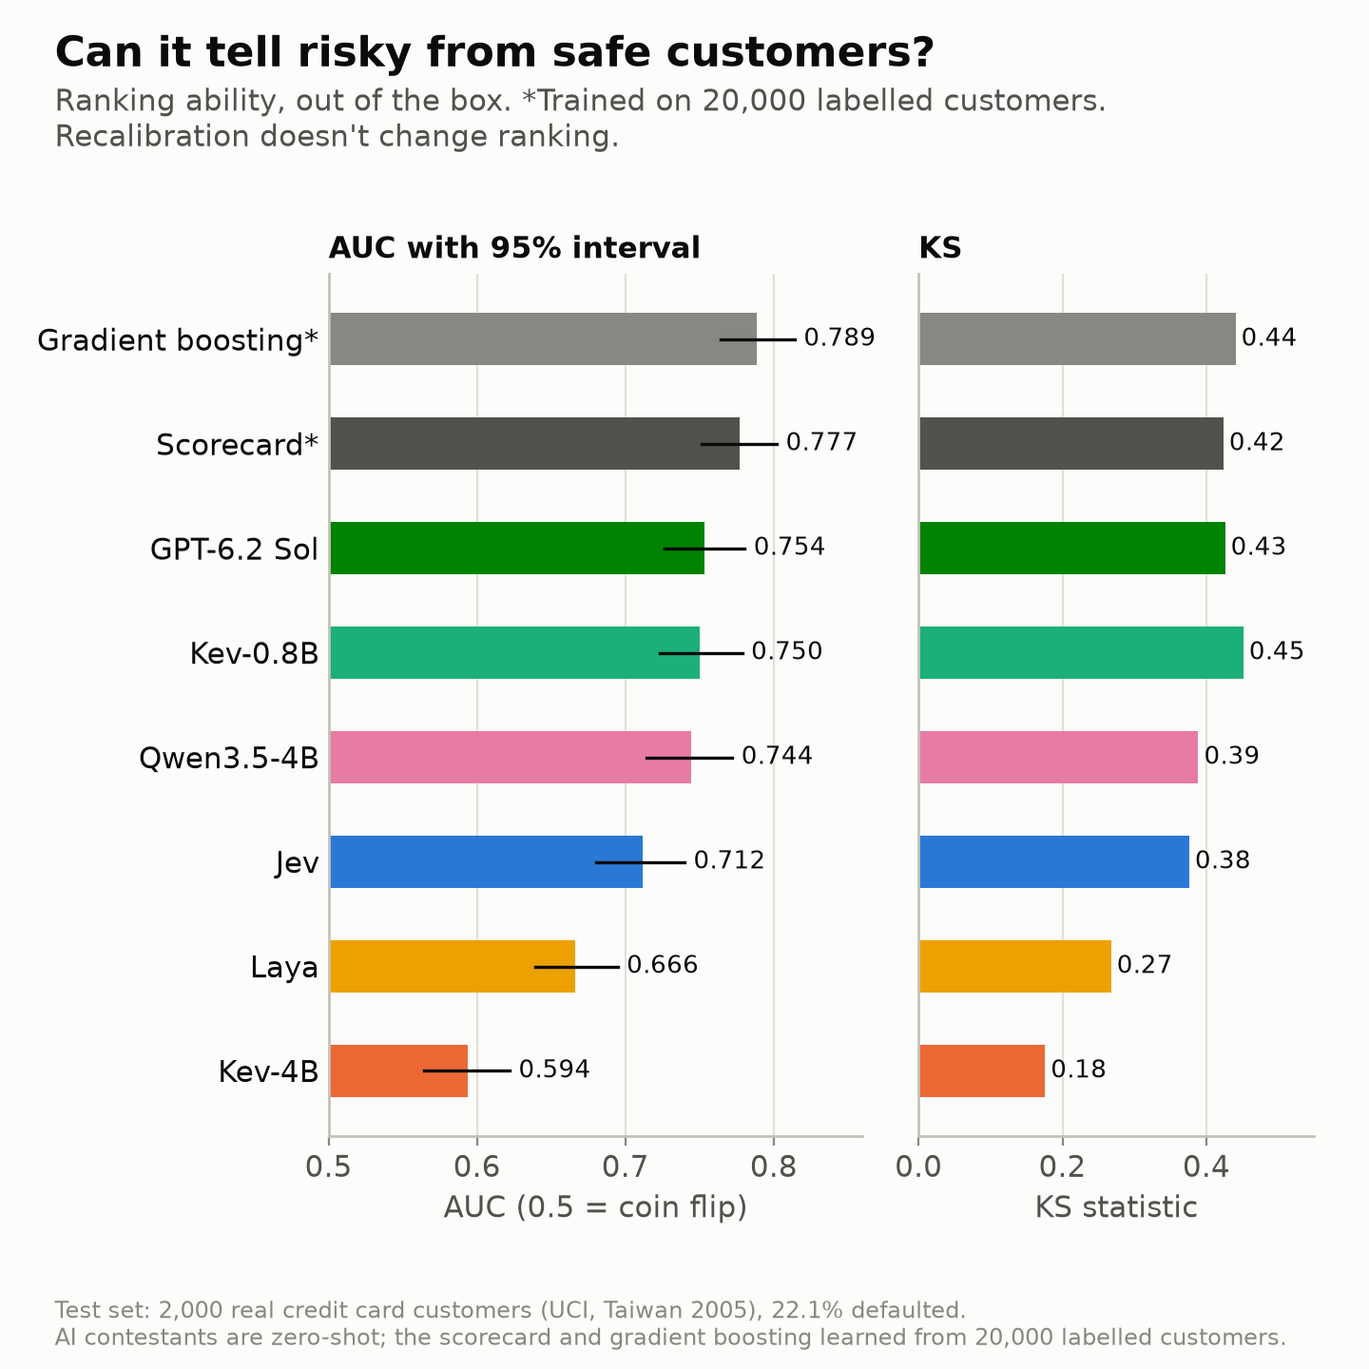
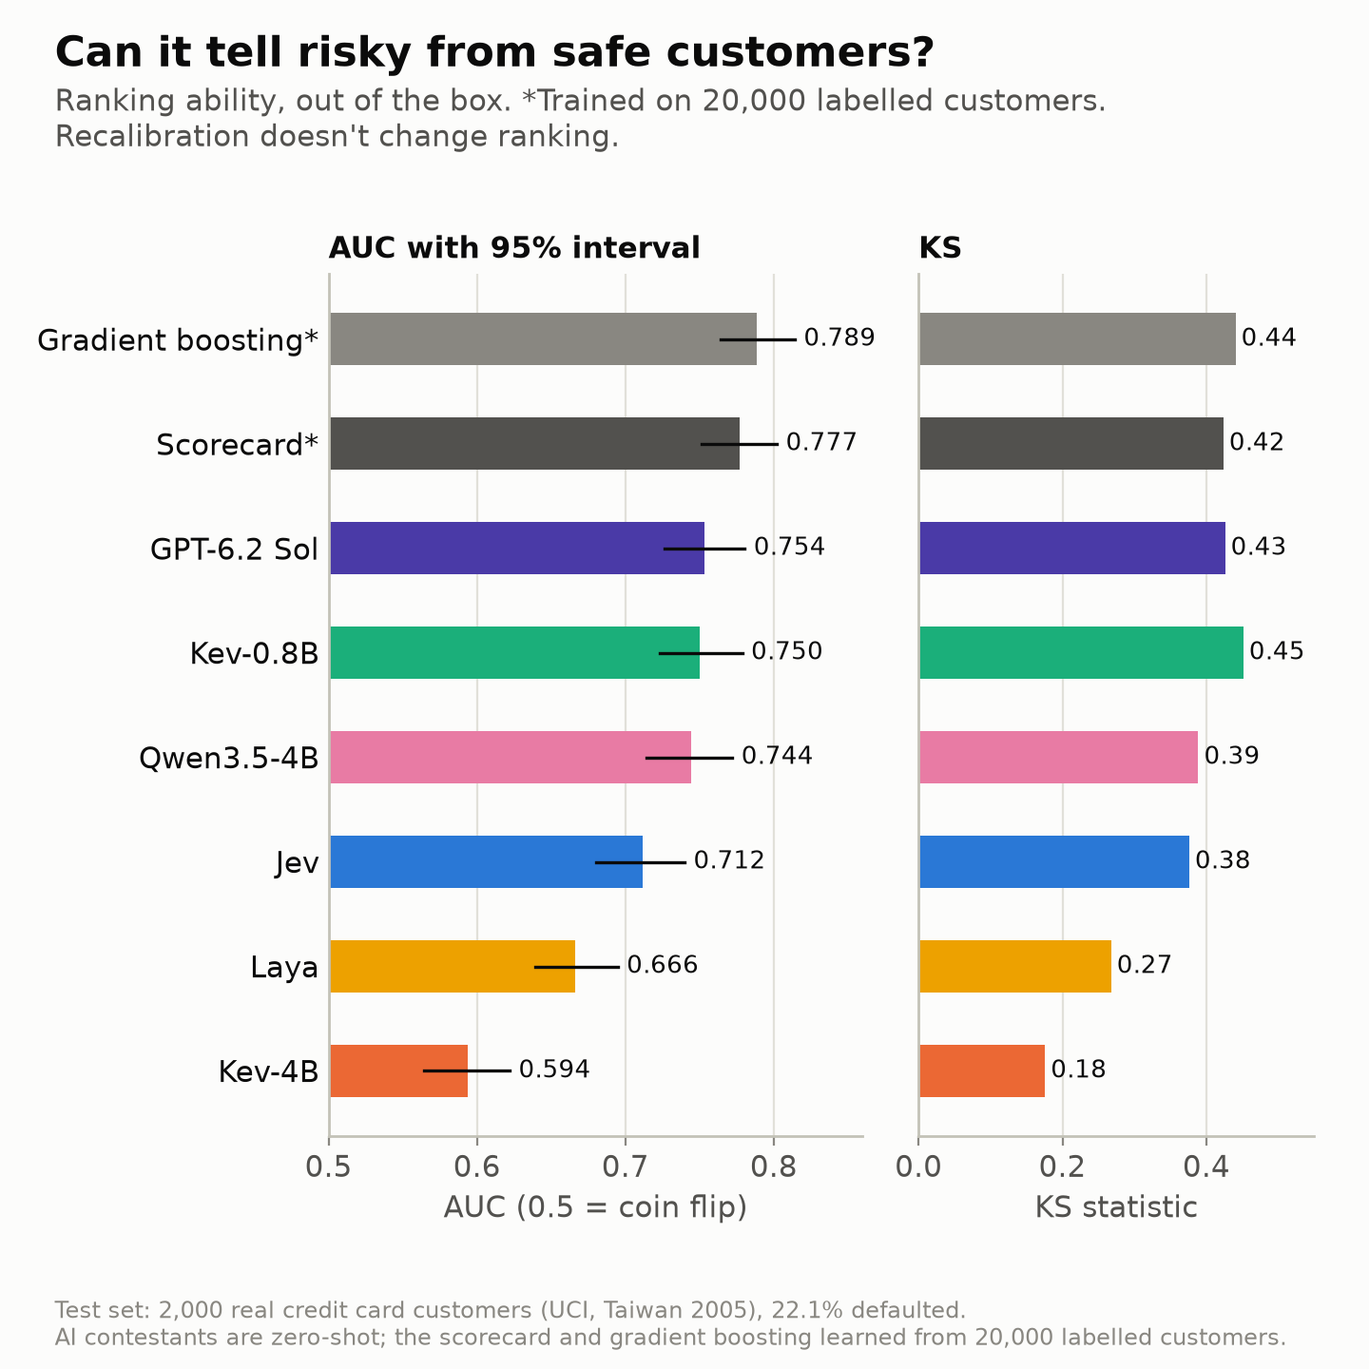
M5 drafts: blog, LinkedIn carousel, X post; Sol recoloured violet in figures
- writeup/blog.md: the canonical post (~1,700 words + method appendix),
  written to writeup/STYLE.md (curiosity first, expertise second).
- writeup/carousel.md: 8 slides, post text and first comment.
- writeup/x_post.md: long-form post with the main chart, links in the reply.
- figures.py: GPT-6.2 Sol moves from slot-6 green (#008300) to slot-7 violet
  at its earlier step (#4a3aa7). The green sat beside Kev-0.8B's aqua and was
  near-identical to Kev-4B's orange under red-green colour blindness (CVD dE
  3.2); the violet's worst pair is 7.0, covered by every chart's name labels.
  All five figures regenerated.

Changed region(s): [[0.2188, 0.375, 0.5312, 0.4375], [0.6562, 0.375, 0.9062, 0.4375]]

diff --git a/analysis/figures.py b/analysis/figures.py
@@ -47,7 +47,11 @@ COLOR = {
     "kev-0.8b": "#1baf7a",  # slot 3 aqua
     "laya": "#eda100",  # slot 4 yellow
     "qwen-logprobs": "#e87ba4",  # slot 5 magenta
-    "frontier-verbal": "#008300",  # slot 6 green
+    # Slot 7 violet at its earlier, darker step. The slot 6 green sat next to Kev-0.8B's aqua
+    # (normal-vision dE 15.6) and was nearly identical to Kev-4B's orange for red-green colour
+    # blindness (dE 3.2); this violet's nearest pairs are Jev (16.3) and the grey scorecard (CVD
+    # 7.0, which every chart's name labels cover).
+    "frontier-verbal": "#4a3aa7",
     "scorecard": "#52514e",  # neutral reference
     "gbm": "#898781",  # neutral reference
 }

diff --git a/writeup/blog.md b/writeup/blog.md
@@ -1,0 +1,198 @@
+# Can AI actually know when it's wrong?
+
+*I gave eight models the same 2,000 real credit-card customers and checked whether their percentages meant what they said.*
+
+When a weather app says there's a 70% chance of rain, you don't expect rain every time. You expect it on about seven of every ten days the app says that. If it rains on all ten, or on two, the app wasn't wrong on any single day. It was wrong about how sure it was.
+
+Banks are held to exactly this standard. Every lending decision rests on a number: the probability that this customer won't pay back. Banks that build their own risk models are expected to show that those probabilities hold up against what actually happens. If a model says 10% and 30% of those customers default, there's a problem, however well it ranked them.
+
+AI models hand out percentages now too. A new kind of model, built only for yes-or-no decisions, returns an answer with a confidence attached, and any chatbot will give you a probability if you ask. So I wanted to know: when an AI says "30% likely", does it mean 30%?
+
+I spent years building credit-risk models, where an honest probability matters more than a clever one. So I ran the test a bank would run.
+
+## The experiment
+
+I used a well-known public dataset: 30,000 credit-card customers of a bank in Taiwan in 2005, and whether each one missed their next payment. About 22% did. I set aside 2,000 customers as the test, the same 2,000 for every contestant.
+
+Each contestant saw the same information about each customer: the credit limit and six months of bills, payments and repayment status. Nothing else. I left out age, sex, marital status and education on purpose. A lending model shouldn't use them, and leaving them out keeps the comparison clean. For the AI models, that became a short text summary:
+
+```
+Credit card account summary
+Credit limit: NT$160,000
+
+Month (most recent first) | Bill amount | Amount paid | Repayment status
+Sep 2005 | NT$30,265 | NT$131 | paid on time (code -1)
+Aug 2005 | -NT$131 (credit) | NT$396 | paid on time (code -1)
+Jul 2005 | -NT$527 (credit) | NT$396 | not late (code -2)
+...
+```
+
+followed by one question: *will this customer miss next month's payment?*
+
+Eight contestants answered.
+
+**Six AI models, answering cold**, with no examples:
+- **Jev**, from TypeSafe: a commercial "decision model", built to answer closed questions with a confidence.
+- **Kev-4B, Kev-0.8B and Laya**: open-source decision models, which I ran on a rented GPU.
+- **Qwen3.5-4B**: a small, free, general-purpose language model. I read its probability straight from its internals: how much weight it put on "yes" versus "no".
+- **GPT-6.2 Sol**: the model ChatGPT starts new chats on, simply asked for a probability from 0 to 100.
+
+**Two classic models**, trained the old way on 20,000 customers whose outcomes were known:
+- a **scorecard** (a logistic regression), the kind banks have used for decades;
+- **gradient boosting**, the standard modern machine-learning approach.
+
+That difference matters, and I'll repeat it wherever I compare them: the classic models learned from 20,000 labelled examples, and the AI models got none. But that *is* the practical question. Do you need the new AI, or the old model and some data?
+
+Each AI model answered three ways:
+1. **Out of the box.**
+2. **With one extra sentence:** "In this portfolio, about 22.1% of customers miss next month's payment."
+3. **After recalibration:** 2,000 *other* customers with known outcomes were used to correct its percentages.
+
+## What "honest" looks like
+
+Here's the whole test in one picture. For each model, I sorted the customers from lowest predicted risk to highest and split them into ten equal groups. Then I plotted what the model promised for each group against what actually happened.
+
+![Promised vs actual default rate](../results/figures/1_promised_vs_actual.png)
+
+On the diagonal, the model is honest: when it says 30%, 30% default. The grey line is the scorecard, and it hugs the diagonal. I'll sum up the gap as one number: the average distance between promised and actual, known as *calibration error* (ECE). The scorecard's is 0.014, so its percentages are off by about 1.4 points on average.
+
+## What I found
+
+### 1. Most AI models think customers are riskier than they are
+
+Five of the six overstated the risk, and two of them more than doubled it:
+- **Jev** said 48% of these customers would default, on average, and **Kev-4B** said 49%. The real figure was 22%.
+- **What a bank would see:** acting on Jev's numbers, it would find 70% of its customers in the "40% or more" risk band. In that group, 26% actually defaulted.
+- **The two close ones:** only Laya and GPT-6.2 Sol were near the truth out of the box, both about 5 points off.
+
+![What a bank would see](../results/figures/4_risk_bands.png)
+
+### 2. One sentence fixes most of it
+
+Telling the models the portfolio's default rate improved calibration for five of the six:
+- **Kev-4B** went from 27 points off to 3. It also got much better at telling risky customers from safe ones, which I didn't expect: the sentence changed *which* customers it flagged.
+- **Kev-0.8B** went the wrong way: its error tripled, from 9 points to 27.
+
+Context helps, but only if you check that it does.
+
+![The honesty arc](../results/figures/2_honesty_arc.png)
+
+### 3. The most "honest" model had seen the answers
+
+GPT-6.2 Sol looked like the star: about 5 points off out of the box and 3 with the base rate. So I checked whether it had seen this data before. It had.
+
+- **It could recite 31 customers from the original data file, word for word.** Only 3 of them are in my test set, and leaving them out changes nothing.
+- **It recognises the dataset.** Shown any one of my summaries and asked where it came from, it named the dataset every time, 53 out of 53, and gave its exact default rate: 22.12%.
+- **Hiding the obvious clues didn't help.** I removed the currency, the dates and the raw codes, and it still recognised the dataset 50 times out of 50, from the shape of the data alone.
+- **Then I told it a false rate,** "about 10%", and it moved about 70% of the way there. So it does listen to what it's told. When told the true rate, it barely moved, because it already knew.
+
+Sol's percentages are honest here most likely because it knows this population, not because it judged each customer well from scratch. On a bank's own customers, there's no famous dataset to remember. (In fairness to Sol, I can't fully rule out that it would guess about 25% for any credit-card portfolio.)
+
+### 4. The old scorecard still ranks customers best
+
+Honest percentages are half the job. The other half is putting risky customers above safe ones, measured by a score called AUC, where 0.5 is a coin flip and 1.0 is perfect.
+- **The classic models:** the scorecard scored 0.777, and gradient boosting 0.789.
+- **The AI models:** none beat the scorecard, though the best came within the margin of error. Kev-4B with the base rate scored 0.757, and Sol 0.754.
+
+![Ranking ability](../results/figures/3_ranking_auc_ks.png)
+
+### 5. You can buy honesty back, with labels
+
+Recalibration with 2,000 labelled customers brought every AI model's error down to between 0.3 and 4 points, close to the scorecard's 1.4. It doesn't change how well a model ranks, only what its numbers mean.
+
+The catch: labelled outcomes are exactly what zero-shot AI was supposed to free you from needing. And with 20,000 of them, a scorecard ranks better than any of the AI models.
+
+### 6. What it costs
+
+- **Sol:** about $0.74 per 1,000 decisions, at around two seconds each.
+- **Jev, through its API:** about 2 cents per 1,000.
+- **The open models, on one rented GPU:** under 2 cents per 1,000, with answers in milliseconds.
+- **The scorecard:** essentially free to run.
+- **The whole experiment,** every check included, cost about $14 in API calls plus a few dollars of GPU time.
+
+![Cost vs ranking ability](../results/figures/5_cost_vs_auc.png)
+
+## I got most of my own predictions wrong
+
+Before running anything, I wrote down my guesses and committed them to the repository, so I couldn't quietly revise them later.
+
+| My guess | What happened |
+|---|---|
+| Jev would be the most honest | ✗ Jev was among the least honest out of the box |
+| Laya would be the least honest | ✗ Laya was among the most honest |
+| Telling the base rate would help most models | ✓ It helped five of six |
+| At least one AI model would beat the scorecard at ranking | ✗ None did |
+
+One out of four. Which is rather the point: confident guesses need checking.
+
+## What I'd tell a bank
+
+- **Ask "when it says 30%, how often is it right?", not just "how accurate is it?"** A model can rank customers well and still give you numbers that are double the truth.
+- **Don't take a zero-shot percentage at face value.** Hold back a labelled sample and recalibrate. Here, 2,000 customers was enough.
+- **Tell the model your base rate.** It's free, and it helped five of six models. But test it, because it broke one.
+- **Test on data the model can't have seen.** Famous public datasets flatter large language models, which can be remarkably good at recognising them.
+- **For ranking alone, the old scorecard is hard to beat.** The case for AI here isn't better risk ranking, at least not yet.
+
+## What this test can't tell you
+
+- **One dataset:** one bank, one country, 2005.
+- **A famous dataset:** AI models have seen it in training. I tested the ones I could, but the decision models can't be probed this way.
+- **No demographic fields, on purpose:** every contestant lost them equally.
+- **Partly undocumented repayment codes:** so I showed the AI models the raw codes rather than guess their meaning.
+- **Not like for like:** the AI models answered cold while the classic models were trained. That's the real-world trade-off, but it isn't an even contest.
+- **Models change:** these results are for the versions I tested in November 2026, all recorded.
+
+## What's next
+
+Dishonest percentages are one way a model can mislead you. A single headline number is another, so next I'll look at why 99% accuracy can still be a disaster. After that comes the sequel to this post: training my own small decision model and rewarding it for knowing when it doesn't know.
+
+---
+
+## Appendix: method and how to reproduce
+
+Code, every prediction and every check: [github.com/nishzsche/can-ai-know-when-its-wrong](https://github.com/nishzsche/can-ai-know-when-its-wrong).
+
+**Data**
+- **Source:** UCI "Default of Credit Card Clients": Yeh, I. C., & Lien, C. H. (2009), *Expert Systems with Applications* 36(2), 2473–2480, doi:10.1016/j.eswa.2007.12.020. Licence: CC BY 4.0.
+- **Splits:** 30,000 customers, split with a fixed seed and stratified on the outcome: train 20,000, tune 2,000, test 2,000, and a reserve of 6,000 that is never used. The default rate is 22.1% in each.
+- **Inputs:** 19 fields (credit limit, and six months each of bill amount, amount paid and repayment status). Sex, marital status, age and education are dropped before any rendering or training.
+
+**The question**
+- **One template, unit-tested and versioned (v2),** renders every customer for every AI model. Repayment codes are shown raw, with only their documented meaning, because the common interpretation of the undocumented codes is contradicted by the data.
+- **The base-rate condition** puts one sentence in front of the question. Recalibration picks Platt scaling or isotonic regression per model by 5-fold cross-validation on tune, then applies it to test. Nothing is ever tuned on test.
+
+**Contestants and versions**
+
+| Contestant | Version and setup |
+|---|---|
+| Jev | `typesafe/jev-1.14-20261014` via OpenRouter's System One endpoint |
+| Kev-4B, Kev-0.8B | `jaredpalmer/kev` v1.0, served on an NVIDIA L4 |
+| Laya | `convaiinnovations/laya` at revision `fd4f9dbc`, on the L4 |
+| Qwen3.5-4B | `Qwen/Qwen3.5-4B` at `851bf6e8`, served by vLLM with thinking off. P(yes) comes from the first answer token's top-20 logprobs, with every spelling of each option combined |
+| GPT-6.2 Sol | `openai/gpt-6.2-sol` via OpenRouter: reasoning effort medium, seed 0, strict JSON answer |
+| Scorecard | Weight-of-evidence binning plus logistic regression, all 19 fields |
+| Gradient boosting | LightGBM, 157 rounds; isotonic-calibrated on tune |
+
+**Metrics**
+- **Ranking:** AUC and KS.
+- **Calibration:** calibration error (ECE, 10 equal-width bins), Brier score, calibration-in-the-large, and calibration slope.
+- **Intervals:** bootstrap 95% intervals (1,000 resamples) for AUC, ECE and calibration-in-the-large.
+- **Records:** every prediction is saved with its probability, model version, latency and cost.
+
+**Checks on my own results**
+- **Memorization tests** (tabmemcheck, plus a longer, deterministic version with room for the model's reasoning): GPT-6.2 Sol reproduces 31 customers verbatim, 3 of them in test. Without those 3, no metric for any model moves by more than 0.0006. Qwen3.5-4B showed no memorization. The decision models can't be probed this way.
+- **Recognition:** Sol names the dataset for 53 of 53 summaries and states its default rate (22.12%). With the currency, dates and raw codes removed, it still does, 50 of 50.
+- **False base rate:** on 500 test customers told "about 10.0%", Sol's average fell from 0.258 to 0.175, a pass-through of 0.69 (95% interval 0.64–0.73), with its ranking unchanged.
+- **Qwen option order:** swapping which letter means "yes" left its average probability almost unchanged (−0.004), and the two orders' answers correlated at 0.91, so there's no letter bias.
+- **A bug in a library:** jevper, an open-source adapter used to prompt Qwen, mis-read its probabilities when the model spelled an option more than one way. I computed them myself instead and reported the bug upstream.
+
+**Reproduce**
+
+```bash
+uv run python data/load.py && uv run python data/splits.py
+uv run python data/render.py --split test
+uv run python baselines/scorecard.py && uv run python baselines/gbm.py
+uv run --group runners python runners/<contestant>.py --split test   # needs API keys / a GPU
+uv run python analysis/recalibrate.py
+uv run python analysis/summarize.py && uv run python analysis/figures.py
+```

diff --git a/writeup/carousel.md b/writeup/carousel.md
@@ -1,0 +1,89 @@
+# LinkedIn carousel: "Can AI actually know when it's wrong?"
+
+Eight square slides (1080 × 1080), exported as one PDF. One idea per slide, big type, a chart where there's evidence to show. The numbers come from `results/summary.csv` and `data/contamination.md`, and the charts from `results/figures/`.
+
+## Post text
+
+> Banks get audited on whether their risk scores are honest. I held AI to the same standard.
+>
+> When a model says a customer is "30% likely to default", about 30 in every 100 such customers should default. That's calibration, and banks are expected to prove it.
+>
+> So I gave eight models the same 2,000 real credit-card customers and one question: will this customer miss next month's payment?
+>
+> What I found:
+> → Most AI models overstated the risk, two of them by more than double
+> → One sentence of context fixed most of it, and broke one model
+> → The most "honest" model had most likely seen the answers
+> → A decades-old scorecard still ranked customers best
+>
+> I also wrote down my predictions before running anything. I got three of four wrong.
+>
+> To be fair to the AI: the classic models learned from 20,000 labelled customers, and the AI models answered cold. That's the real trade-off.
+>
+> Full write-up, code and every prediction in the first comment.
+
+## First comment
+
+> The full write-up, including how I checked whether the models had memorized the data: [blog link]
+> Code and all predictions: [github.com/nishzsche/can-ai-know-when-its-wrong](https://github.com/nishzsche/can-ai-know-when-its-wrong)
+> Data: UCI "Default of Credit Card Clients" (Yeh & Lien, 2009), CC BY 4.0.
+
+## Slides
+
+### 1. Hook
+
+**Headline:** Banks get audited on whether their risk scores are honest.
+**Body:** I held AI to the same standard.
+**Footer:** 8 models · 2,000 real customers · 1 question
+**Visual:** text only. Large headline, the body line in a second colour.
+
+### 2. The setup
+
+**Headline:** Same customers. Same question.
+**Body:**
+- 2,000 real credit-card customers (Taiwan, 2005). 22% missed a payment.
+- "Will this customer miss next month's payment?"
+- 6 AI models answering cold
+- 2 classic models trained on 20,000 customers
+- No age, sex, marital status or education
+**Visual:** two columns of model names. AI: Jev, Kev-4B, Kev-0.8B, Laya, Qwen3.5-4B, GPT-6.2 Sol. Classic: Scorecard, Gradient boosting.
+
+### 3. What "honest" looks like
+
+**Headline:** When it says 30%, do 30% default?
+**Body:** A weather app that says "70% chance of rain" should be right on about 7 of every 10 such days. A risk model is the same. On the diagonal, the model is honest.
+**Visual:** a simple diagonal line labelled "honest", with "too pessimistic" below it and "too optimistic" above it. Or the scorecard panel from figure 1.
+
+### 4. Promised vs actual
+
+**Headline:** Most AI models think customers are riskier than they are.
+**Body:** Jev said 48% would default. Kev-4B said 49%. The real figure: 22%.
+**Visual:** `results/figures/1_promised_vs_actual.png`, or crop it to the Jev and Kev-4B panels for phone size.
+
+### 5. The honesty arc
+
+**Headline:** One sentence fixes most of it.
+**Body:** "In this portfolio, about 22% of customers miss a payment." Calibration improved for 5 of 6 models. Kev-4B went from 27 points off to 3. It made Kev-0.8B worse.
+**Visual:** `results/figures/2_honesty_arc.png`.
+
+### 6. The twist
+
+**Headline:** The most "honest" model had most likely seen the answers.
+**Body:** GPT-6.2 Sol named the dataset 53 times out of 53 and knew its exact default rate: 22.12%. Told a false rate (10%), it followed 70% of the way. It already knew the real one.
+**Visual:** three big numbers in a row: **53/53** recognised · **22.12%** recalled · **70%** followed a false hint.
+
+### 7. The punchline
+
+**Headline:** A decades-old scorecard still ranks customers best.
+**Body:** Scorecard AUC 0.777. The best AI models: 0.757 and 0.754, close but not ahead. The scorecard learned from 20,000 customers; the AI models from none.
+**Visual:** `results/figures/3_ranking_auc_ks.png`.
+
+### 8. What to take away
+
+**Headline:** Ask how honest it is, not just how accurate.
+**Body:**
+- Check calibration, not just accuracy
+- Recalibrate zero-shot AI on your own labelled data (2,000 customers was enough)
+- Test on data the model can't have seen
+**Footer:** Next: why 99% accuracy can still be a disaster.
+**Visual:** text only, with the next-post teaser at the bottom.

diff --git a/writeup/x_post.md b/writeup/x_post.md
@@ -1,0 +1,47 @@
+# X long-form post: "Can AI actually know when it's wrong?"
+
+One long-form post with the main chart attached, and no links in it. The method and links go in the first reply. The numbers come from `results/summary.csv` and `data/contamination.md`.
+
+**Attach:** `results/figures/1_promised_vs_actual.png`
+
+## Post
+
+> When an AI says "30% likely", does it mean 30%?
+>
+> I tested 8 models on 2,000 real credit-card customers, the way a bank checks its risk models: does the promised default rate match what actually happens?
+>
+> The contestants:
+> • 6 AI models, answering cold: Jev, Kev-4B, Kev-0.8B, Laya, Qwen3.5-4B (probability read from its logprobs), GPT-6.2 Sol (asked for a %)
+> • 2 classic models trained on 20,000 labelled customers: a scorecard and gradient boosting
+>
+> Same inputs for all of them: credit limit plus 6 months of bills, payments and repayment status. No demographics.
+>
+> What happened:
+>
+> 1. Most AI models overstate risk. Jev said 48% would default and Kev-4B 49%. Actual: 22%.
+>
+> 2. One sentence ("about 22% of customers miss a payment") cut calibration error for 5 of 6. Kev-4B went from 0.27 to 0.03. Kev-0.8B went the other way: 0.09 → 0.27.
+>
+> 3. GPT-6.2 Sol tied with Laya as the most honest out of the box (0.05). Then I checked:
+> – it recites 31 customers from the original data file verbatim
+> – it names the dataset for 53 of 53 summaries and states its exact default rate, 22.12%
+> – stripping the currency, dates and codes doesn't stop it: 50 of 50
+> – told a false rate (10%), it moves 70% of the way there
+> It does listen to stated rates, and it most likely already knew this one.
+>
+> 4. No AI model beat the scorecard at ranking (AUC 0.777 vs best 0.757). The scorecard was trained; the AI models weren't.
+>
+> 5. Recalibrating on 2,000 labelled customers brings every AI model to 0.003–0.041 calibration error. Honesty is fixable, but it costs labels.
+>
+> 6. Cost per 1,000 decisions: Sol $0.74, the open models under $0.02 on one L4.
+>
+> Bonus: a bug in jevper's logprob readout turned Qwen's 0.32 into 0.00004. I worked around it and reported it upstream.
+>
+> I wrote my predictions down before running anything. Three of four were wrong.
+
+## First reply
+
+> Full write-up: [blog link]
+> Code, all predictions and every check: github.com/nishzsche/can-ai-know-when-its-wrong
+>
+> Method in short: the same test set for every model; nothing tuned on test; recalibration (Platt or isotonic, picked by CV) fitted on a separate 2,000; bootstrap intervals; one unit-tested template for every AI model. Data: UCI Default of Credit Card Clients (CC BY 4.0).
